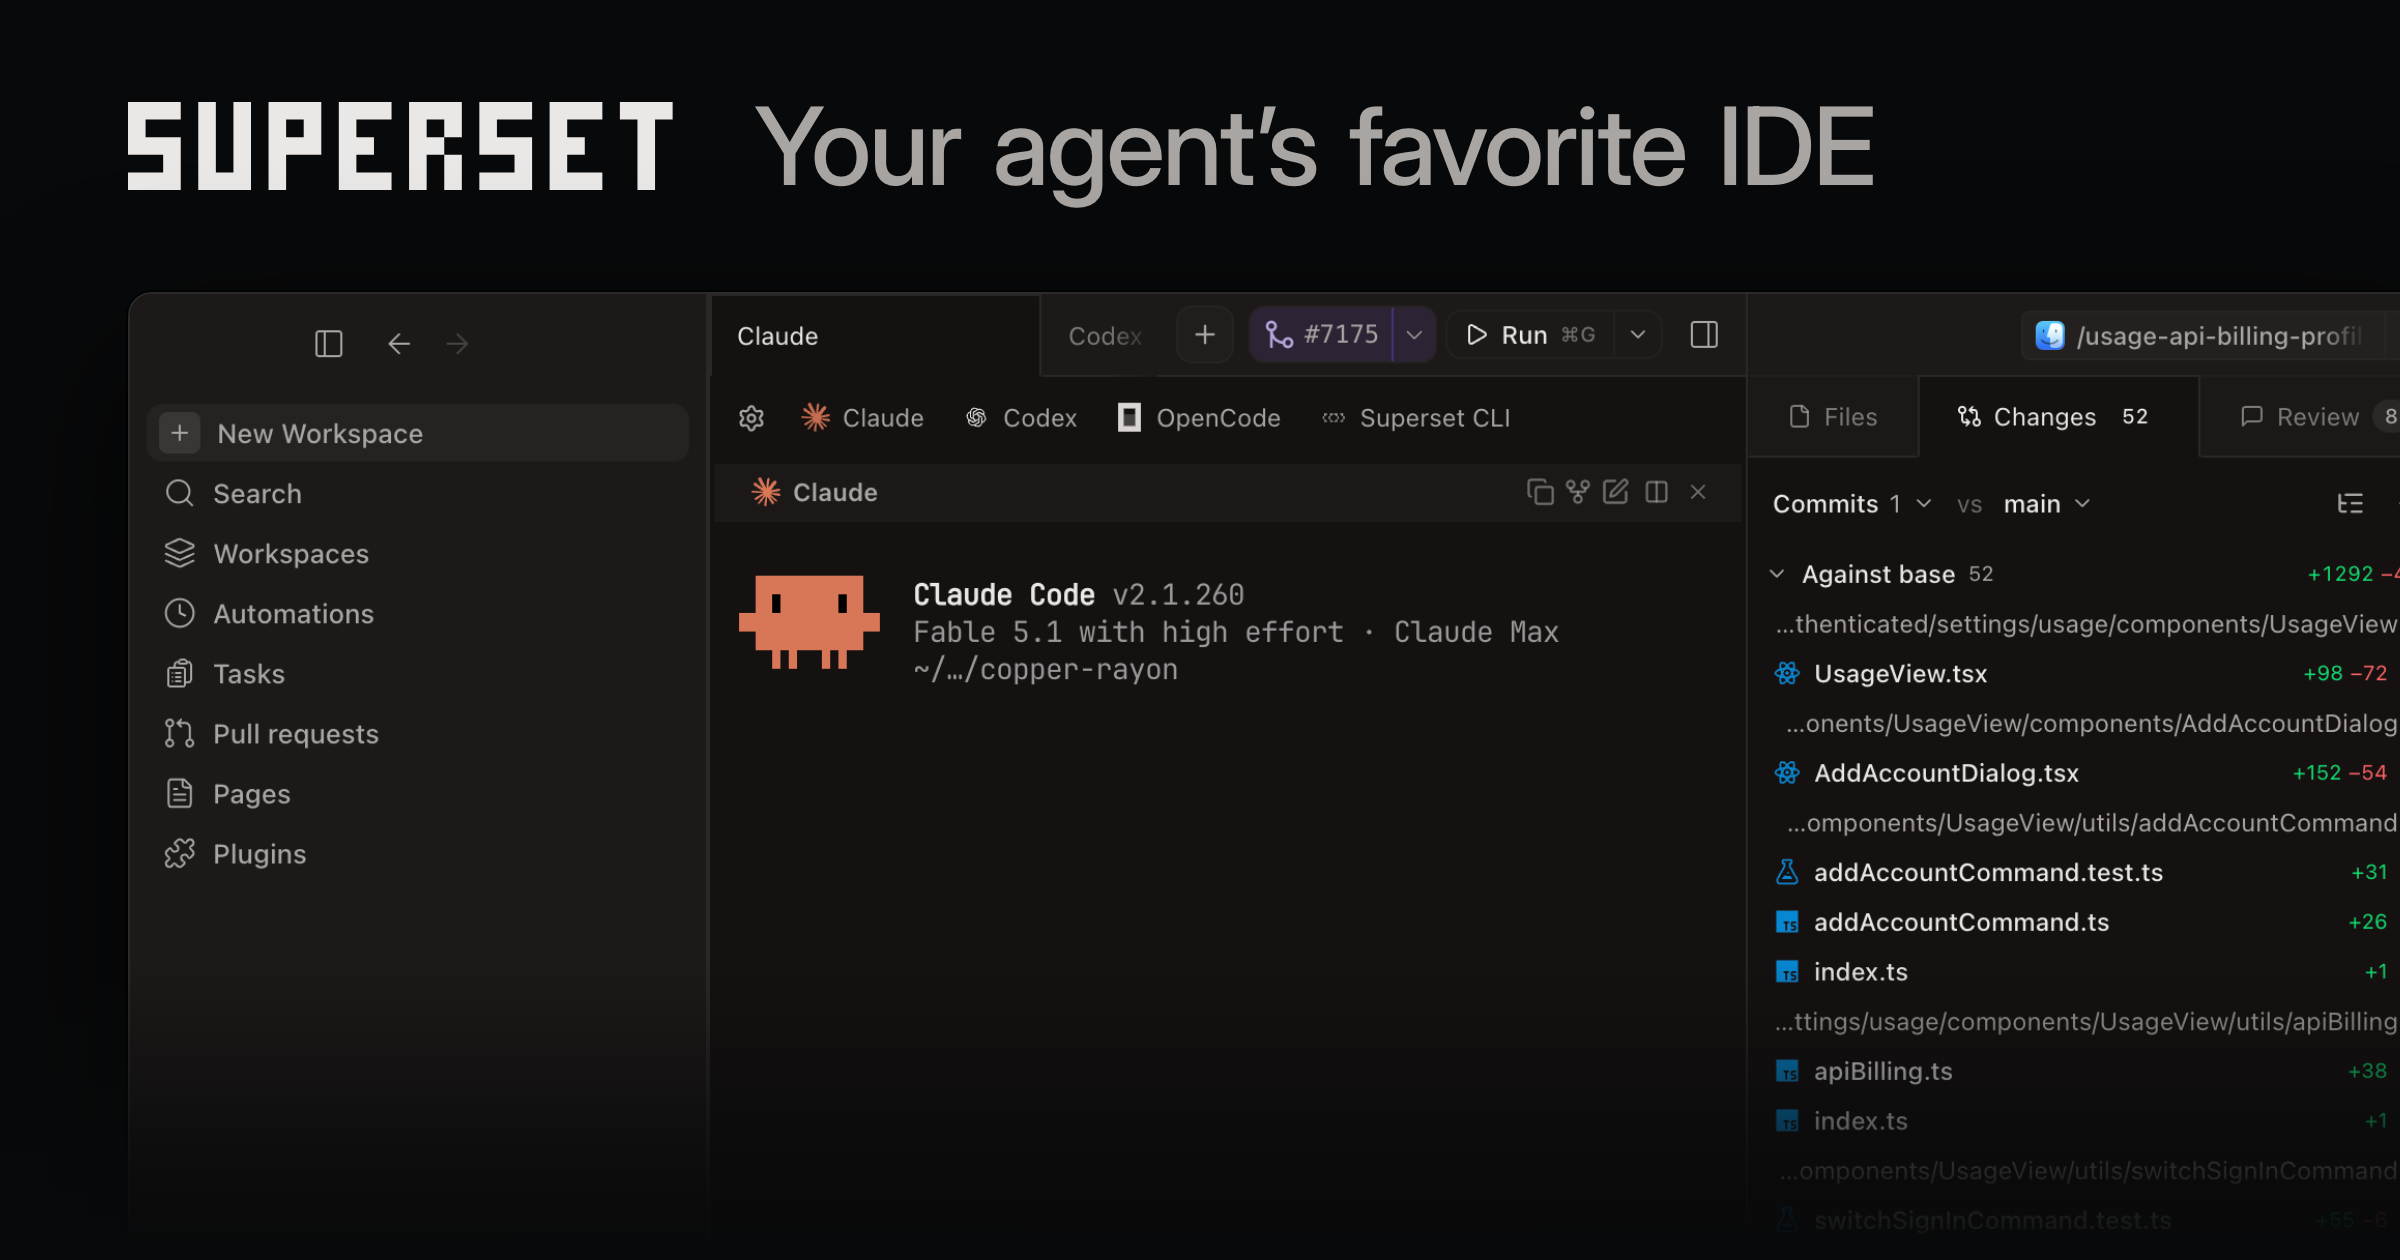
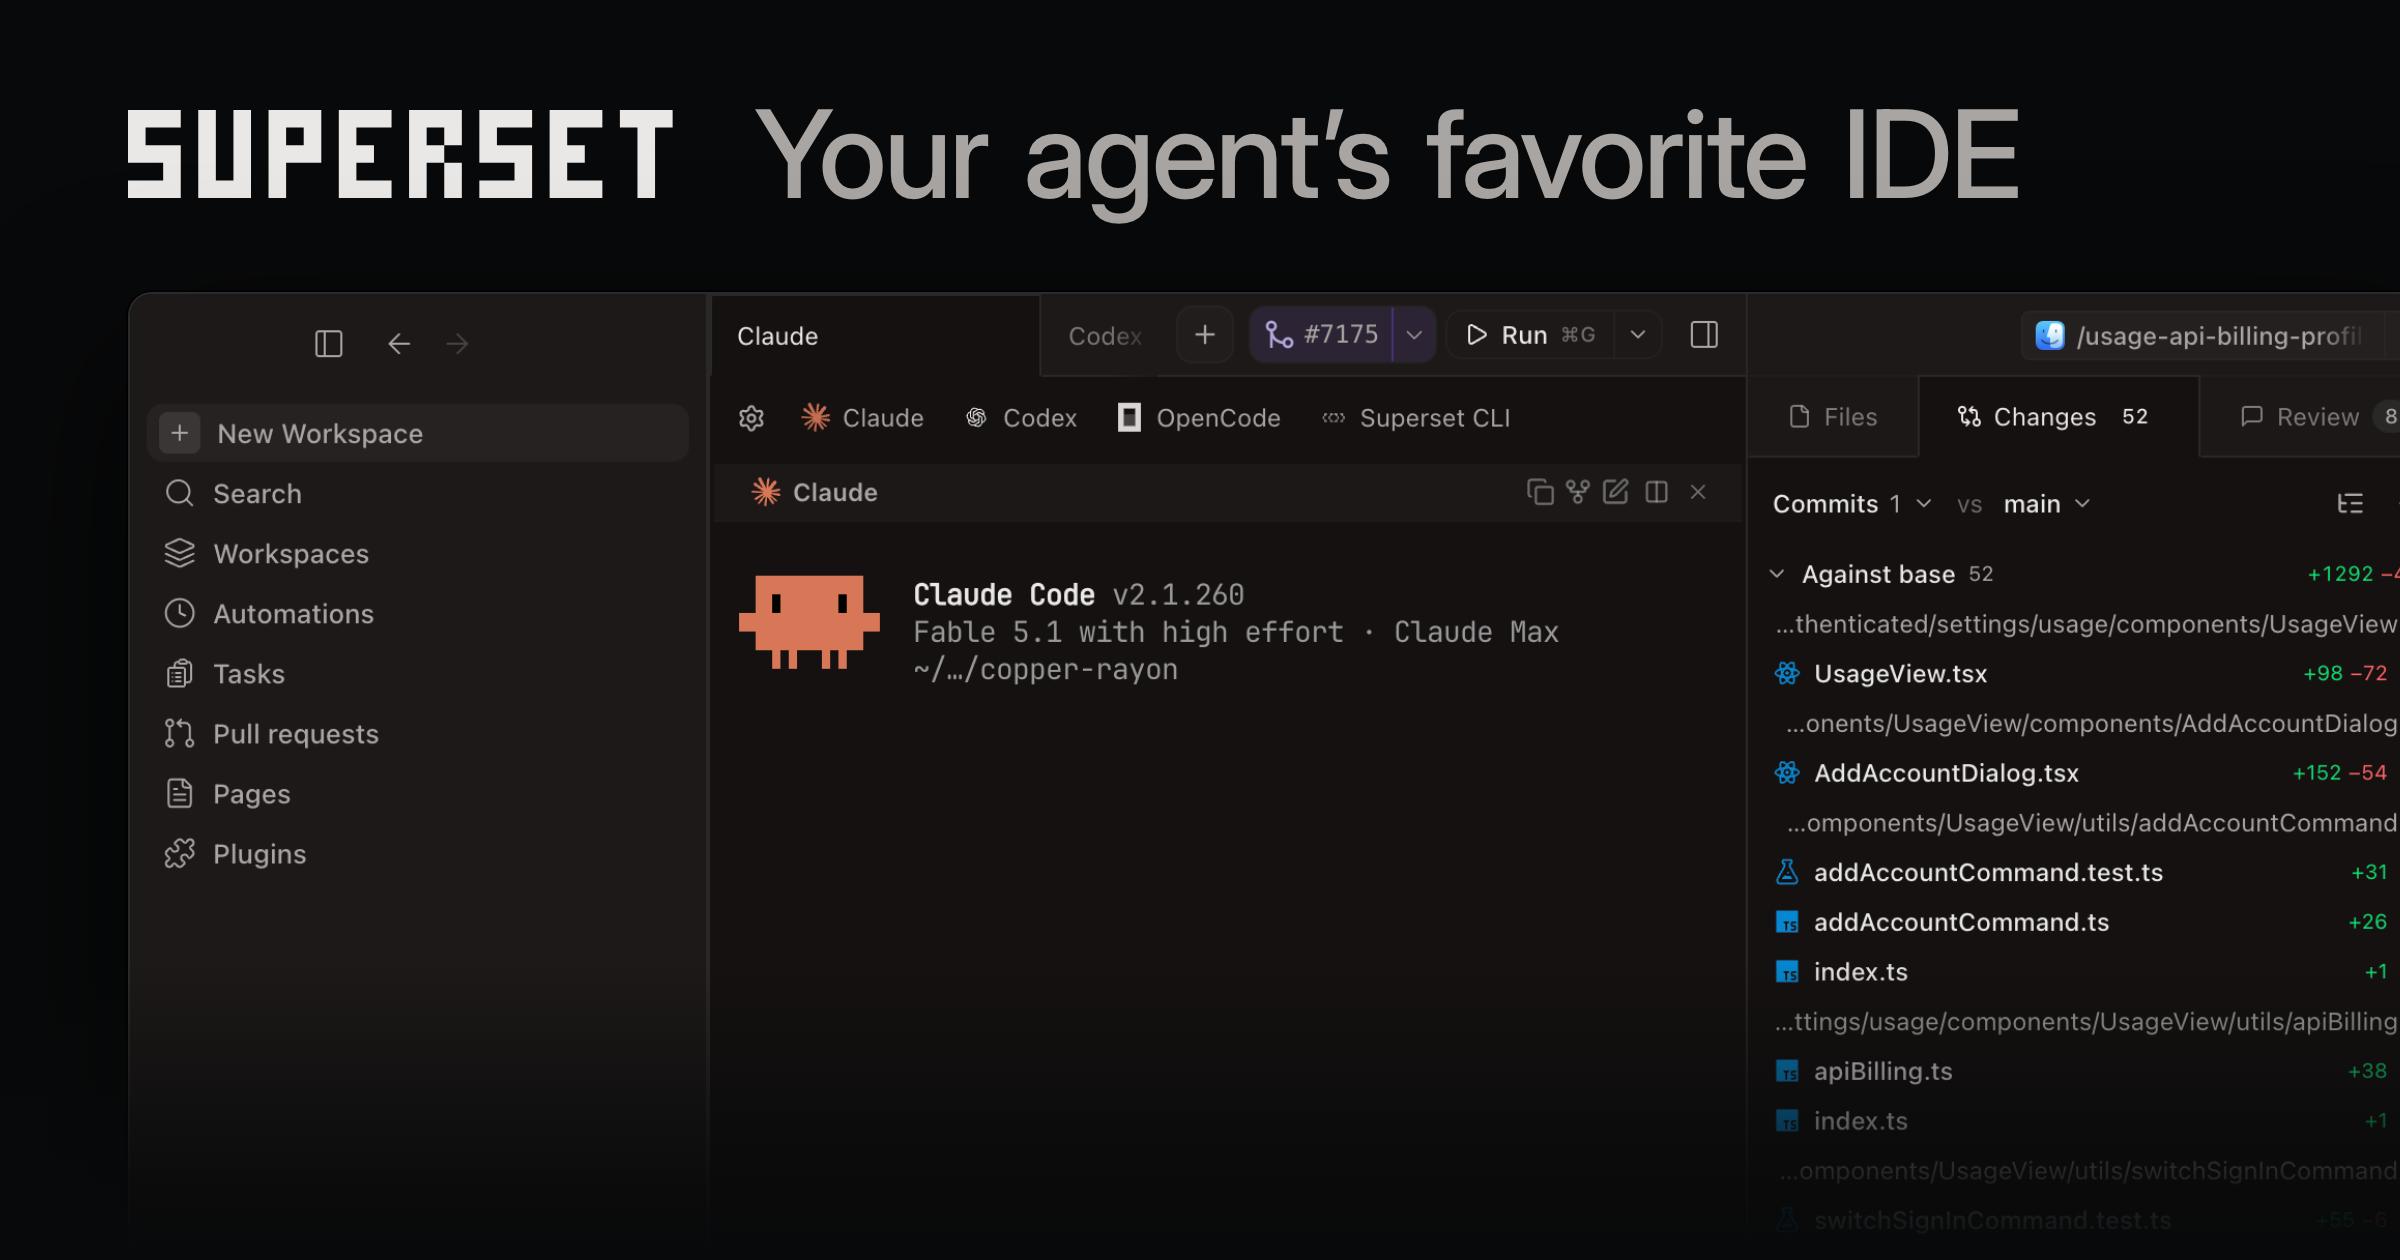
fix(marketing): match the social preview tagline to the wordmark height

Changed region(s): [[0.3125, 0.0619, 0.8438, 0.1857], [0.0312, 0.0619, 0.2812, 0.1548]]

diff --git a/apps/marketing/scripts/og-image/og-image.html b/apps/marketing/scripts/og-image/og-image.html
@@ -9,7 +9,7 @@
   body{width:1200px;height:630px;overflow:hidden;position:relative}
   .head{position:absolute;left:64px;top:40px;display:flex;align-items:center;gap:30px}
   .wm{height:44px;width:283px;display:block}
-  .head p{margin:0;font-family:Inter,ui-sans-serif,system-ui,sans-serif;font-feature-settings:"cv01","ss03";font-size:54px;font-weight:500;letter-spacing:-0.025em;word-spacing:.08em;color:#a8a5a2;-webkit-font-smoothing:antialiased}
+  .head p{margin:0;font-family:Inter,ui-sans-serif,system-ui,sans-serif;font-feature-settings:"cv01","ss03";font-size:61px;font-weight:500;letter-spacing:-0.025em;word-spacing:.08em;color:#a8a5a2;-webkit-font-smoothing:antialiased}
   .win{position:absolute;left:64px;top:146px;width:1160px;border-radius:12px 0 0 0;border:1px solid #2a2b2d;box-shadow:0 0 0 1px rgba(0,0,0,.7),0 30px 80px rgba(0,0,0,.7);overflow:hidden}
   .win img{display:block;width:100%;height:auto}
   .fade{position:absolute;left:0;right:0;bottom:0;height:150px;background:linear-gradient(180deg,rgba(8,9,10,0),rgba(8,9,10,.85) 75%,#08090a)}
